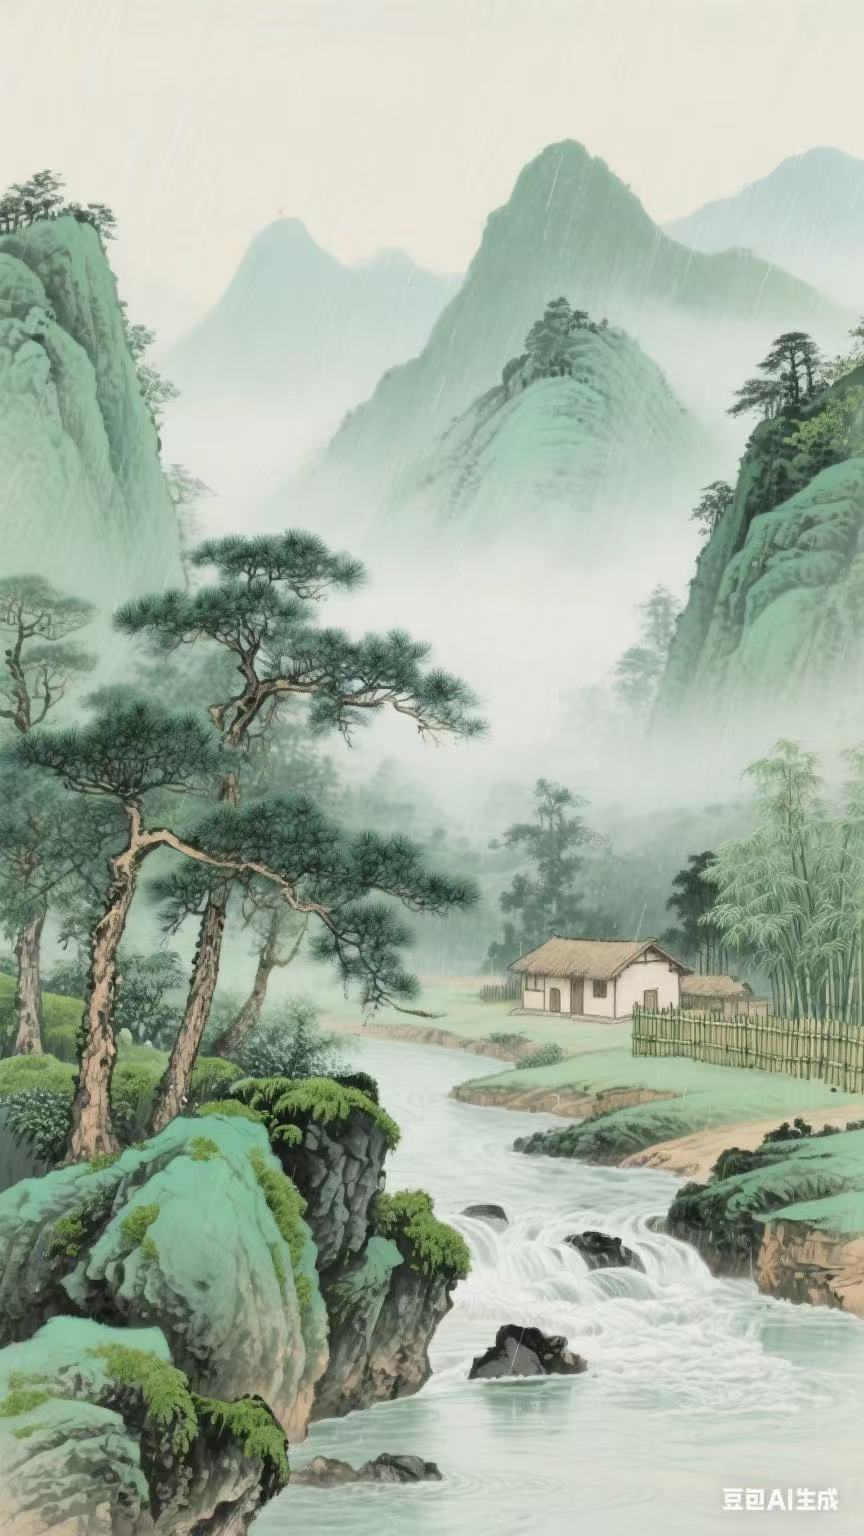
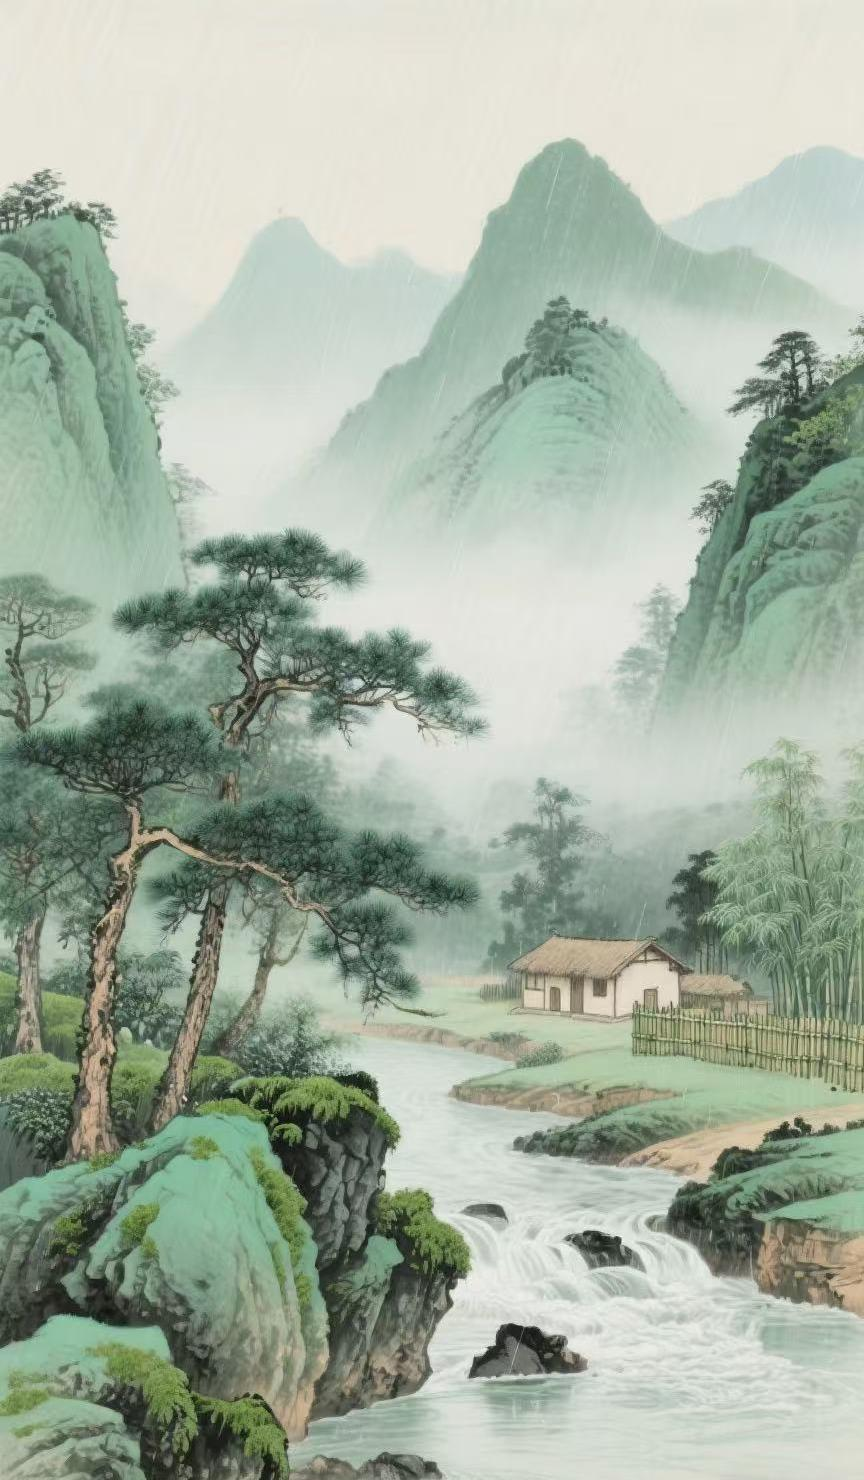
图片水印去除，首页布局修改

diff --git a/app/page.tsx b/app/page.tsx
@@ -29,7 +29,7 @@ export default function HomePage() {
     {
       id: "porcelain",
       title: "青瓷雅韵",
-      subtitle: "宋窑神工",
+      // subtitle: "宋窑神工",
       icon: "🏺",
       path: "/porcelain",
       color: "from-jade-green to-deep-jade",
@@ -38,7 +38,7 @@ export default function HomePage() {
     {
       id: "tea",
       title: "茶禅一味",
-      subtitle: "东坡品茗",
+      // subtitle: "东坡品茗",
       icon: "🍵",
       path: "/tea",
       color: "from-bamboo-green to-jade-green",
@@ -47,7 +47,7 @@ export default function HomePage() {
     {
       id: "silk",
       title: "锦绣华章",
-      subtitle: "丝路织梦",
+      // subtitle: "丝路织梦",
       icon: "🧵",
       path: "/silk",
       color: "from-plum-purple to-cinnabar-red",
@@ -56,7 +56,7 @@ export default function HomePage() {
     {
       id: "poetry",
       title: "诗词风雅",
-      subtitle: "墨韵千秋",
+      // subtitle: "墨韵千秋",
       icon: "📜",
       path: "/poetry",
       color: "from-ink-black to-deep-ink",
@@ -65,13 +65,26 @@ export default function HomePage() {
     {
       id: "drama",
       title: "梨园春秋",
-      subtitle: "脸谱传神",
+      // subtitle: "脸谱传神",
       icon: "🎭",
       path: "/drama",
       color: "from-cinnabar-red to-deep-red",
       description: "探索戏曲艺术的魅力",
     },
+    {
+      id: "report",
+      title: "宋韵报告",
+      subtitle: "解锁成就",
+      icon: "🔒",
+      path: "/report",
+      color: "from-gray-400 to-gray-500",
+      description: "完成全部体验后解锁",
+      locked: true,
+    },
   ]
+  // 记录已点击模块
+  const [clickedModules, setClickedModules] = useState<Set<string>>(new Set());
+  const [reportUnlocked, setReportUnlocked] = useState(false);
 
   useEffect(() => {
     // 检查登录状态
@@ -111,7 +124,20 @@ export default function HomePage() {
     localStorage.removeItem("loggedInUser"); // 清除登录状态
     router.push("/login"); // 重定向到登录页面
   };
-
+  // 处理模块点击
+  const handleModuleClick = (id: string, path: string, locked?: boolean) => {
+    if (id === "report" && !reportUnlocked) return;
+    if (id !== "report") {
+      setClickedModules((prev) => {
+        const next = new Set(prev);
+        next.add(id);
+        // 如果五个模块都点过，解锁 report
+        if (next.size === 5) setReportUnlocked(true);
+        return next;
+      });
+    }
+    router.push(path);
+  };
   // 如果未登录，显示加载或欢迎动画
   if (!loggedInUser && showWelcome) {
     return (
@@ -228,19 +254,21 @@ export default function HomePage() {
           </motion.button>
         </div>
         
-        {/* 顶部标题区域 */}
+        {/* 顶部标题区域 */} 
         <motion.div
-          initial={{ opacity: 0, y: -50 }}
-          animate={{ opacity: 1, y: 0 }}
-          transition={{ duration: 0.8 }}
-          className="text-center mb-8"
-        >
-          <div className="relative">
-            <h1 className="text-4xl font-bold ancient-title mb-4 text-black">宋韵漫游</h1> {/* 文字颜色改为黑色 */}
-            <div className="w-24 h-1 bg-gradient-to-r from-ancient-gold to-bronze-gold mx-auto rounded-full" />
-          </div>
-        </motion.div>
-
+      initial={{ opacity: 0, y: -20 }}
+      animate={{ opacity: 1, y: 0 }}
+      transition={{ duration: 0.8 }}
+      className="text-center mb-8"
+    >
+      <div className="relative badge-container">
+        {/* 模拟复古标签背景 */}
+        <div className="badge-background" /> 
+        <h2 className="text-3xl font-bold ancient-title text-white absolute top-1/2 left-1/2 -translate-x-1/2 -translate-y-1/2">
+          宋韵漫游
+        </h2>
+      </div>
+    </motion.div>
         {/* 诗词轮播区域 */}
         <motion.div
           initial={{ opacity: 0, scale: 0.9 }}
@@ -248,8 +276,14 @@ export default function HomePage() {
           transition={{ delay: 0.2, duration: 0.8 }}
           className="mb-8"
         >
-          <Card className="ancient-card p-6 text-center bg-white/10 backdrop-blur-sm shadow-lg border border-gray-200"> {/* 修改为更透明的背景 */}
-            <div className="h-16 flex items-center justify-center">
+          <Card className="ancient-card p-6 text-center bg-white/10 backdrop-blur-sm shadow-lg border border-gray-200 max-w-md mx-auto"
+          style={{
+            maxWidth: "400px",
+            margin: "0 auto",
+            maxHeight: "80px",
+          }}
+          > {/* 修改为更透明的背景 */}
+            <div className="h-10 flex items-center justify-center">
               <AnimatePresence mode="wait">
                 <motion.p
                   key={currentPoetry}
@@ -276,42 +310,61 @@ export default function HomePage() {
           </Card>
         </motion.div>
 
-        {/* 文化模块网格 */}
+        {/* 文化模块网格：三行两列布局，report初始锁定，全部一屏展示 */}
         <motion.div
-          initial={{ opacity: 0, y: 50 }}
-          animate={{ opacity: 1, y: 0 }}
-          transition={{ delay: 0.4, duration: 0.8 }}
-          className="space-y-4 mb-8"
-        >
-          {culturalModules.map((module, index) => (
-            <motion.div
-              key={module.id}
-              initial={{ opacity: 0, x: index % 2 === 0 ? -50 : 50 }}
-              animate={{ opacity: 1, x: 0 }}
-              transition={{ delay: 0.6 + index * 0.2, duration: 0.6 }}
-            >
-              <Link href={module.path}>
-                <Card className="ancient-card p-6 hover:shadow-xl transition-all duration-300 cursor-pointer group bg-white/10 backdrop-blur-sm shadow-lg border border-gray-200"> {/* 修改为更透明的背景 */}
-                  <div className="flex items-center space-x-4">
-                    <div
-                      className={`w-16 h-16 rounded-full bg-gradient-to-br ${module.color} flex items-center justify-center text-2xl group-hover:scale-110 transition-transform duration-300`}
-                    >
-                      {module.icon}
-                    </div>
-                    <div className="flex-1">
-                      <h3 className="text-xl font-bold ancient-title text-ink-black mb-1">{module.title}</h3>
-                      <p className="text-sm text-ancient-gold font-medium mb-2">{module.subtitle}</p>
-                      <p className="text-sm ancient-text text-deep-ink">{module.description}</p>
-                    </div>
-                    <div className="text-ancient-gold group-hover:translate-x-2 transition-transform duration-300">
-                      →
-                    </div>
-                  </div>
-                </Card>
-              </Link>
-            </motion.div>
-          ))}
-        </motion.div>
+  initial={{ opacity: 0, y: 50 }}
+  animate={{ opacity: 1, y: 0 }}
+  transition={{ delay: 0.4, duration: 0.8 }}
+  className="grid grid-cols-1 sm:grid-cols-2 gap-4 mb-8" // 用gap-4更宽松
+  style={{ maxWidth: "800px", margin: "0 auto", minHeight: "10vh" }} // 宽度加大到800px
+>
+  {culturalModules.map((module, index) => {
+    const isReport = module.id === "report";
+    const unlocked = reportUnlocked;
+    return (
+      <motion.div
+        key={module.id}
+        initial={{ opacity: 0, scale: 0.9 }}
+        animate={{ opacity: 1, scale: 1 }}
+        transition={{ delay: 0.6 + index * 0.1, duration: 0.5 }}
+      >
+        <div
+  className={`ancient-card p-4 flex min-h-[140px] flex-col gap-2 cursor-pointer group bg-white/10 backdrop-blur-sm shadow-lg border border-gray-200 transition-all duration-300
+    ${isReport && !unlocked ? "opacity-60 bg-gray-200 cursor-not-allowed" : "hover:shadow-xl"}`}
+  onClick={() => handleModuleClick(module.id, module.path, isReport && !unlocked)}
+  style={{ pointerEvents: isReport && !unlocked ? "none" : "auto" }}
+>
+  {/* 标题单独占一行 */}
+  <h3 className={`text-center text-lg font-bold ${isReport && !unlocked ? "text-gray-500" : "text-ink-black"}`}>
+    {module.title}
+  </h3>
+
+  {/* 图标 + 副标题 + 描述 一行 */}
+  <div className="flex items-center gap-3">
+    <div
+      className={`w-12 h-12 rounded-full bg-gradient-to-br ${isReport && !unlocked ? "from-gray-400 to-gray-500" : module.color} flex items-center justify-center text-2xl`}
+    >
+      {isReport && !unlocked ? "🔒" : module.icon}
+    </div>
+    <div className="flex-1">
+      <p className={`text-sm font-medium ${isReport && !unlocked ? "text-gray-400" : "text-ancient-gold"}`}>
+        {module.subtitle}
+      </p>
+      <p className={`text-sm ${isReport && !unlocked ? "text-gray-400" : "text-deep-ink"}`}>
+        {module.description}
+      </p>
+    </div>
+    <div className={`transition-transform duration-300 ${isReport && !unlocked ? "text-gray-400" : "text-ancient-gold group-hover:translate-x-2"}`}>
+      {isReport && !unlocked ? "" : "→"}
+    </div>
+  </div>
+</div>
+
+      </motion.div>
+    );
+  })}
+</motion.div>
+
 
         {/* 东坡形象区域 */}
         <motion.div

diff --git a/app/globals.css b/app/globals.css
@@ -253,3 +253,20 @@ body {
 .ancient-shadow {
   box-shadow: 0 4px 16px rgba(212, 175, 55, 0.2), inset 0 1px 0 rgba(255, 255, 255, 0.3);
 }
+/* 首页顶部标题 */
+.badge-container {
+  display: inline-block;
+  position: relative;
+  padding: 1.2rem 2rem; 
+}
+.badge-background {
+  width: 300px; /* 可按需调整标签宽高 */
+  height: 60px;
+  background: linear-gradient(to right, #b58257, #d9b38c); 
+  border: 2px solid #8b5a2b;
+  border-radius: 12px;
+  box-shadow: 0 2px 4px rgba(0,0,0,0.3);
+}
+.ancient-title {
+  font-family: "SimSun", serif; /* 模拟类似古籍字体，可替换成你想要的复古字体 */
+}
